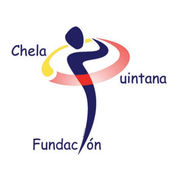
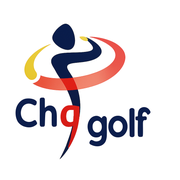
Add files via upload

Changed region(s): [[0.0556, 0.1111, 0.9444, 0.8889]]

diff --git a/index.html b/index.html
@@ -3,15 +3,15 @@
 <head>
 <meta charset="utf-8">
 <meta name="viewport" content="width=device-width,initial-scale=1">
-<meta name="apple-mobile-web-app-capable" content="yes">
-<meta name="apple-mobile-web-app-title" content="CHQ Práctica">
+
+
 <meta name="theme-color" content="#123d27">
-<meta name="apple-mobile-web-app-status-bar-style" content="black-translucent">
-<meta name="mobile-web-app-capable" content="yes">
-<meta name="application-name" content="CHQ Golf Practice">
-<link rel="manifest" href="./manifest.webmanifest">
-<link rel="apple-touch-icon" href="./apple-touch-icon.png">
-<link rel="icon" type="image/png" sizes="192x192" href="./icon-192.png">
+
+
+
+
+
+
 
 <title>CHQ Programa de Práctica de Golf de 6 Días</title>
 <style>
@@ -88,11 +88,24 @@ button:disabled{opacity:.65;cursor:default}
   body{background:#fff}
 }
 </style>
-</head>
+<meta name="apple-mobile-web-app-capable" content="yes">
+<meta name="apple-mobile-web-app-title" content="CHQ 6 Days">
+<meta name="apple-mobile-web-app-status-bar-style" content="default">
+<meta name="mobile-web-app-capable" content="yes">
+<meta name="application-name" content="CHQ 6 Days">
+<link rel="manifest" href="./manifest.webmanifest">
+<link rel="apple-touch-icon" sizes="180x180" href="./apple-touch-icon.png?v=chq-logo-20261012">
+<link rel="icon" type="image/png" sizes="192x192" href="./icon-192.png?v=chq-logo-20261012">
+<style>
+/* CHQ original logo and app heading */
+.chq-logo{display:block;width:150px;max-width:45vw;height:auto;margin:0 auto 14px;border-radius:12px;background:#fff;padding:8px}
+.chq-brand-heading{text-align:center}.chq-brand-heading h1{margin:10px 0 12px;font-family:Arial,Helvetica,sans-serif;font-size:clamp(24px,4vw,34px);line-height:1.15;font-weight:700}
+body{padding-top:env(safe-area-inset-top);padding-bottom:env(safe-area-inset-bottom)}
+header .sub{text-align:center}.chq-spanish-title{text-align:center;font-size:16px;margin-bottom:8px}</style></head>
 <body>
 <header>
   <div class="wrap">
-    <div class="brand">CHQ Programa de Práctica de Golf de 6 Días</div>
+    <div class="chq-brand-heading"><img class="chq-logo" src="./chq-logo.jpg" alt="CHQ Golf"><h1>6-Day Golf Practice Program</h1><div class="chq-spanish-title">Programa de práctica de golf de 6 días</div></div>
     <div class="sub">Evaluación Inicial → 6 días de práctica de 1.5–2 horas → Evaluación Final</div>
   </div>
 </header>
@@ -703,7 +716,7 @@ render();
 <script>
 if ('serviceWorker' in navigator) {
   window.addEventListener('load', () => {
-    navigator.serviceWorker.register('./sw.js').catch(error => console.warn('PWA offline:', error));
+    navigator.serviceWorker.register('./sw.js', {updateViaCache: 'none'}).catch(error => console.warn('PWA offline:', error));
   });
 }
 </script>

diff --git a/sw.js b/sw.js
@@ -1,10 +1,10 @@
-const CACHE = 'chq-golf-practice-pwa-v1';
-const ASSETS = ['./', './index.html', './manifest.webmanifest', './icon-192.png', './icon-512.png', './apple-touch-icon.png'];
+const CACHE = 'chq-golf-practice-pwa-logo-20261012';
+const ASSETS = ['./', './index.html', './manifest.webmanifest', './icon-192.png', './icon-512.png', './apple-touch-icon.png', './chq-logo.jpg'];
 self.addEventListener('install', event => {
   event.waitUntil(caches.open(CACHE).then(cache => cache.addAll(ASSETS)).then(() => self.skipWaiting()));
 });
 self.addEventListener('activate', event => {
-  event.waitUntil(caches.keys().then(keys => Promise.all(keys.filter(key => key !== CACHE).map(key => caches.delete(key)))).then(() => self.clients.claim()));
+  event.waitUntil(caches.keys().then(keys => Promise.all(keys.filter(key => key.startsWith("chq-golf-practice-pwa-") && key !== CACHE).map(key => caches.delete(key)))).then(() => self.clients.claim()));
 });
 self.addEventListener('fetch', event => {
   const request = event.request;
